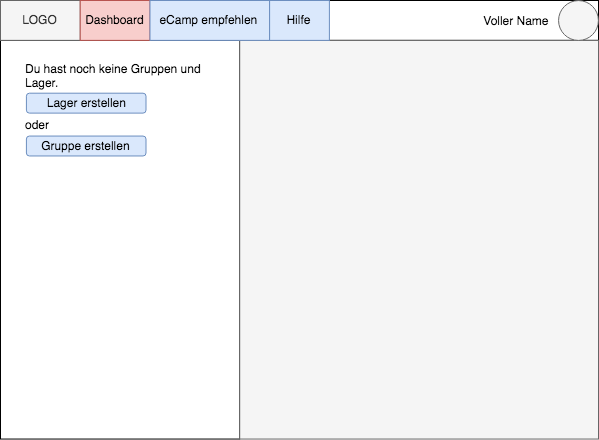
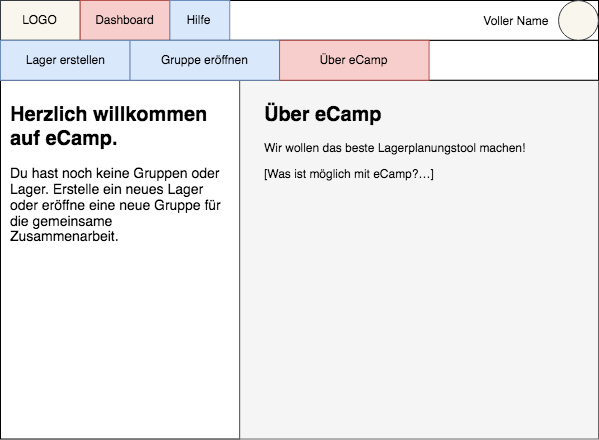
Added UC02

diff --git a/docs/UseCases.md b/docs/UseCases.md
@@ -1,19 +1,40 @@
 # Use Cases
+Legende für die Bilder:
+Blau: Aktion
+Rot: Aktiv
+Violett: Disabled
+
 
 #### ```UC 01``` Neuregistrierter Benutzer ohne Einladung 
  _(Prio 10)_  
+ Dem Benutzer wird die Über eCamp Seite angezeigt.
  - Lager erstellen  
  - Gruppe erstellen  
  - Hilfe anschauen  
- - eCamp empfehlen  
  
- ![Bild UC 1](images/uc01.png)  
+ ![Bild UC 1](images/Uc01.png)  
  
 ---
 #### ```UC 02``` Neues Camp erstellen
  _(Prio 10)_  
- Name, Gruppe, Zeit (Perioden), CampType (Lager oder Kurs), Mitarbeitende.  
+  Name, Gruppe, Zeit (Perioden), CampType (Lager oder Kurs), Mitarbeitende.  
+
+##### ```UC 02.1``` Benutzer hat noch keine Gruppe
+ Wenn der Benutzer noch keine Gruppe hat, 
+ kann er hier eine Gruppe mit dem Namen erstellen. 
+ Diese wird automatisch in die versteckte Übergruppe "Benutzer" erstellt.
+ ![Bild UC 2.1](images/UC02_1.png) 
  
+##### ```UC 02.2``` Benutzer hat bereits mind. eine Gruppe
+ Wenn der Benutzer bereits eine Gruppe hat, dann
+ wird automatisch die ausgewählte Gruppe ausgewählt.
+  ![Bild UC 2.2](images/UC02_2.png) 
+ 
+##### ```UC 02.3``` Benutzer kommt via Gruppenview auf diesen Flow
+ (Falls der Benutzer bereits eine vorgegebene Struktur hat (MiData / Hitobito / …))  
+ Hier kann der Benutzer die Gruppe nicht auswählen,
+ es wird ihm einfach angezeit, in welcher Gruppe 
+ das Lager kreiert wird.
  
 ---
 #### ```UC 03``` Camp finden und öffnen.
